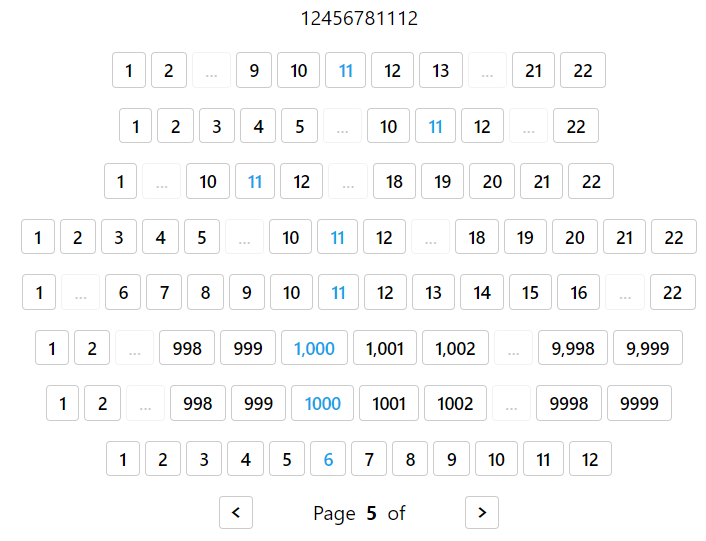
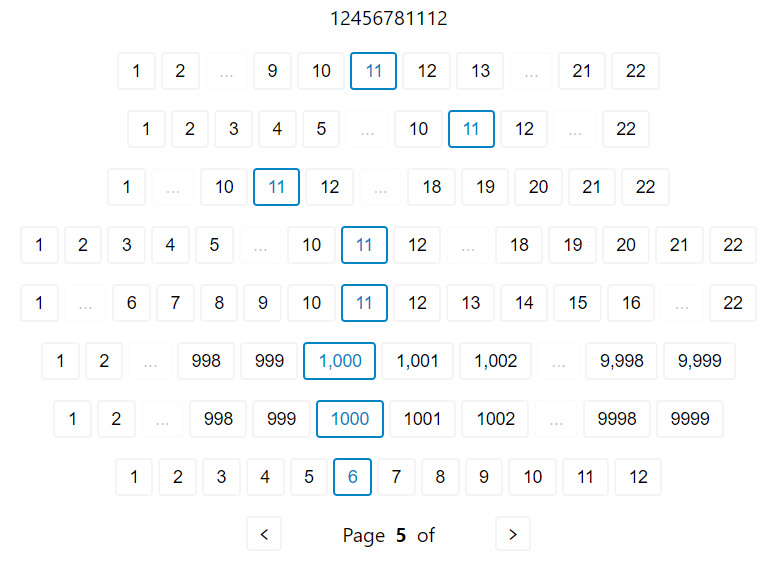
Patch pagination themes

diff --git a/packages/pagination/themes.js b/packages/pagination/themes.js
@@ -3,16 +3,16 @@ export const inline = {
         style: "font-family:Arial;display:flex;justify-content:center;align-items:center;gap:.25rem;"
     },
     link: {
-        style: "position:relative;display:inline-flex;align-items:center;padding:.2rem.6rem;border-radius:.2rem;border: 1px solid #ccc;flex-wrap:nowrap;line-height:1.25rem;font-size:.875rem;font-weight:500;color:#000;",
-        onmouseover: "this.style.textDecoration='underline';",
-        onmouseout: "this.style.textDecoration='none';",
+        style: "position:relative;display:inline-flex;align-items:center;padding:.2rem.6rem;border-radius:.2rem;border: 2px solid #F4F4F5;flex-wrap:nowrap;line-height:1.25rem;font-size:.875rem;font-weight:500;color:#000;",
+        onmouseover: "this.style.color='#0284C7';",
+        onmouseout: "this.style.color='#000';",
     },
     active: {
-        style: "position:relative;display:inline-flex;align-items:center;padding:.2rem.6rem;border-radius:.2rem;border: 1px solid #ccc;flex-wrap:nowrap;line-height:1.25rem;font-size:.875rem;font-weight:500;border:1px solid #ccc;color:#0EA5E9;"
+        style: "position:relative;display:inline-flex;align-items:center;padding:.2rem.6rem;border-radius:.2rem;border: 2px solid #F4F4F5;flex-wrap:nowrap;line-height:1.25rem;font-size:.875rem;font-weight:500;border-color:#0284C7;color:#0284C7;"
     },
     disabled: {
         text: "...",
-        style: "position:relative;display:inline-flex;align-items:center;padding:.2rem.6rem;border-radius:.2rem;border: 1px solid #ccc;flex-wrap:nowrap;line-height:1.25rem;font-size:.875rem;font-weight:500;opacity:.25;",
+        style: "position:relative;display:inline-flex;align-items:center;padding:.2rem.6rem;border-radius:.2rem;border: 2px solid #F4F4F5;flex-wrap:nowrap;line-height:1.25rem;font-size:.875rem;font-weight:500;opacity:.25;",
     },
     first: {},
     before: {},
@@ -27,13 +27,15 @@ export const simple = {
     active: {
         style: "display:flex;align-items:center;gap:.5rem;margin: 0 3rem;font-weight:bold;",
         _page: {
-            slot: "before",
+            tag: "span",
+            slot: "first",
             text: "Page",
-            style: "font-weight:normal"
+            style: "font-weight:normal;"
         },
         _of: {
+            tag: "span",
             text: "of",
-            style: "font-weight:normal"
+            style: "font-weight:normal;"
         }
     },
     disabled: {
@@ -41,31 +43,27 @@ export const simple = {
     },
     before: {
         text: "<",
-        style: "font-family:monospace;padding: 0 0.5rem;border-radius:3px;border: 1px solid #ccc;font-weight:bold;font-size:1rem;"
+        style: "font-family:monospace;padding: 0 0.5rem;border-radius:3px;border: 2px solid #F4F4F5;font-size:1rem;"
     },
     after: {
         text: ">",
-        style: "font-family:monospace;padding: 0 0.5rem;border-radius:3px;border: 1px solid #ccc;font-weight:bold;font-size:1rem;"
+        style: "font-family:monospace;padding: 0 0.5rem;border-radius:3px;border: 2px solid #F4F4F5;font-size:1rem;"
     },
 }
 
 export const tailwind = {
     container: {
-        style: "display:flex;justify-content:center;align-items:center;gap:.25rem;"
+        class: "font-[Arial] flex justify-center items-center gap-1"
     },
     link: {
-        style: "cursor:pointer;position:relative;display:inline-flex;align-items:center;padding:.2rem.6rem;border-radius:.2rem;border: 1px solid #ccc;flex-wrap:nowrap;line-height:1.25rem;font-size:.875rem;font-weight:500;",
-        onmouseover: "this.style.textDecoration='underline';",
-        onmouseout: "this.style.textDecoration='none';",
+        class: "relative inline-flex items-center flex-nowrap py-[.2rem] px-[.6rem] rounded-[3px] border-2 border-gray-100 text-sm text-black hover:text-sky-600",
     },
     active: {
-        style: "cursor:pointer;position:relative;display:inline-flex;align-items:center;padding:.2rem.6rem;border-radius:.2rem;border: 1px solid #ccc;flex-wrap:nowrap;line-height:1.25rem;font-size:.875rem;font-weight:500;border:1px solid #ccc;color:#0EA5E9;",
-        onmouseover: "this.style.textDecoration='underline';",
-        onmouseout: "this.style.textDecoration='none';",
+        class: "relative inline-flex items-center flex-nowrap py-[.2rem] px-[.6rem] rounded-[3px] border-2 border-sky-600 text-sm text-sky-600",
     },
     disabled: {
         text: "...",
-        style: "cursor:pointer;position:relative;display:inline-flex;align-items:center;padding:.2rem.6rem;border-radius:.2rem;border: 1px solid #ccc;flex-wrap:nowrap;line-height:1.25rem;font-size:.875rem;font-weight:500;cursor:default;opacity:.25;",
+        class: "opacity-25 relative inline-flex items-center py-[.2rem] px-[.6rem] rounded-[3px] border-2 border-gray-100 text-sm text-black",
     },
     first: {},
     before: {},

diff --git a/packages/pagination/README.md b/packages/pagination/README.md
@@ -8,6 +8,8 @@ A pagination component that uses [astro-json-element](https://github.com/BryceRu
 
 ## Changes
 
+- Added tailwind theme, update/fixed inline theme
+- Made url optional default to `/{page_number}`
 - Added tab navigation option
 - Added ability to load built in themes using a string of its name
 - Moved `link`, `active`, `disabled`, `first`, `before`, `after`, and `last` props into the `theme` prop
